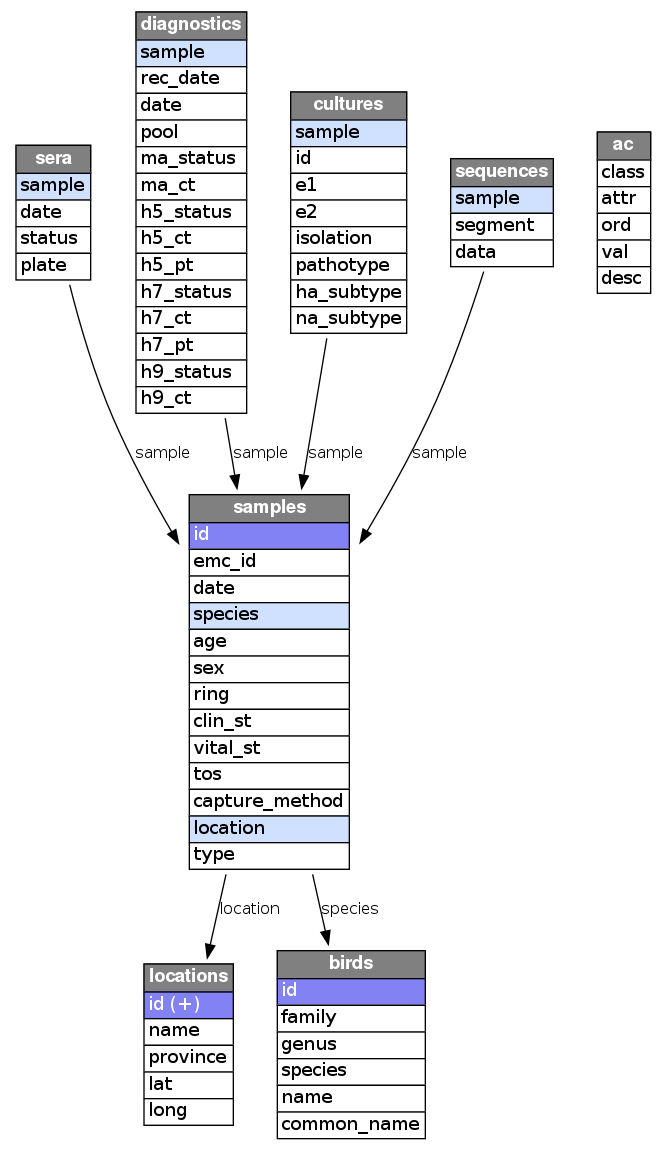
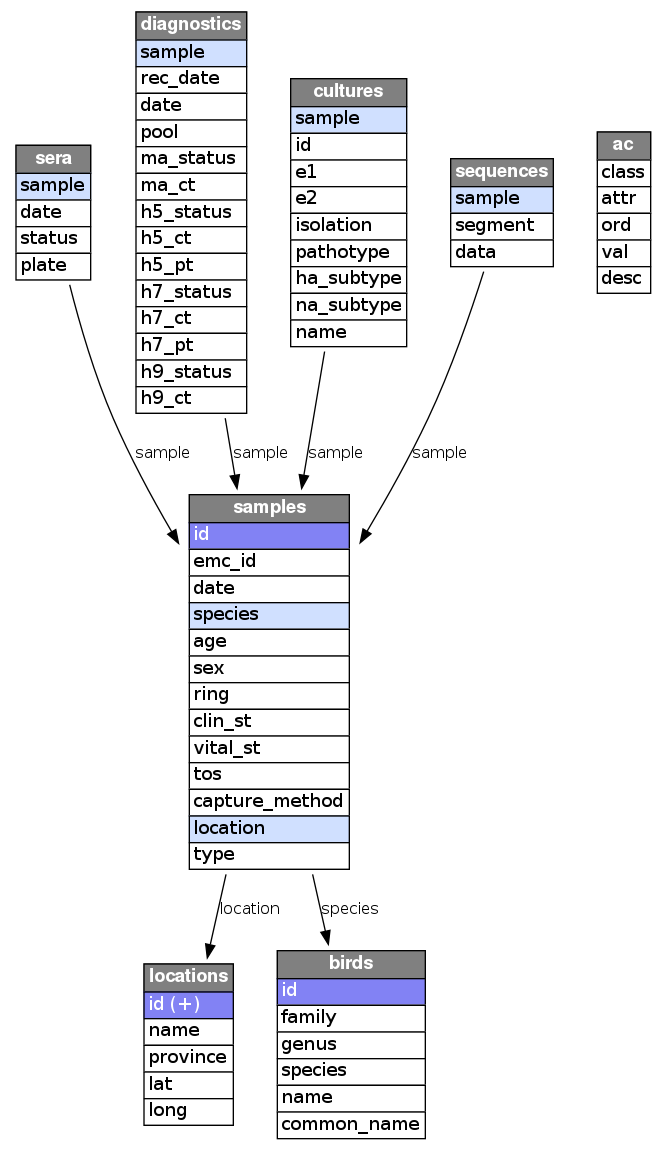
added the name attribute to cultures

Changed region(s): [[0.4198, 0.0609, 0.6297, 0.3046]]

diff --git a/schema/bfs-meta.html b/schema/bfs-meta.html
@@ -1190,6 +1190,32 @@
 
       </td>
     </tr>
+    <tr>
+      <td href="bfs-meta.html#cultures:name" align="left" valign="top" bgcolor="white">
+        <a name="cultures:name"> name
+      </td>
+      <td valign="top"> text </td>
+      <td valign="top"> &nbsp; </td>
+      <td valign="top">
+         <table border="0" cellborder="1" cellspacing="0">
+            <tr>
+              <td valign="top">
+                <font color="#808080">Description:</font>
+              </td>
+              <td> &nbsp; </td>
+              <td valign="top">The name of the isolate</td>
+            </tr>
+            <tr>
+              <td valign="top">
+                <font color="#808080">Source:</font>
+              </td>
+              <td> &nbsp; </td>
+              <td valign="top">user input</td>
+            </tr>
+         </table>
+
+      </td>
+    </tr>
   </table>
 </p>
 <p>
@@ -1626,27 +1652,26 @@
     <tr>
       <td colspan=4>
         <table border="0" cellborder="1" cellspacing="2">
-          <tr> <td valign="top"> <code>1</code> </td> <td>&nbsp;</td> <td valign="top"> <code>Alkhasikhe Lake 1</code> </td> <td>&nbsp;</td> <td valign="top"> <code>Samtskhe-Javakheti</code> </td> <td>&nbsp;</td> <td valign="top"> <code>041.1442</code> </td> <td>&nbsp;</td> <td valign="top"> <code>43.4600 </code> </td> </tr> 
-          <tr> <td valign="top"> <code>2</code> </td> <td>&nbsp;</td> <td valign="top"> <code>Alkhasikhe Lake 2</code> </td> <td>&nbsp;</td> <td valign="top"> <code>Samtskhe-Javakheti</code> </td> <td>&nbsp;</td> <td valign="top"> <code>041.1980</code> </td> <td>&nbsp;</td> <td valign="top"> <code>43.0000 </code> </td> </tr> 
-          <tr> <td valign="top"> <code>3</code> </td> <td>&nbsp;</td> <td valign="top"> <code>Beshkenti</code> </td> <td>&nbsp;</td> <td valign="top"> <code>Kakheti</code> </td> <td>&nbsp;</td> <td valign="top"> <code>041.7009</code> </td> <td>&nbsp;</td> <td valign="top"> <code>46.1512 </code> </td> </tr> 
-          <tr> <td valign="top"> <code>4</code> </td> <td>&nbsp;</td> <td valign="top"> <code>Grigoleti</code> </td> <td>&nbsp;</td> <td valign="top"> <code>Guria</code> </td> <td>&nbsp;</td> <td valign="top"> <code>042.0600</code> </td> <td>&nbsp;</td> <td valign="top"> <code>41.7100 </code> </td> </tr> 
-          <tr> <td valign="top"> <code>5</code> </td> <td>&nbsp;</td> <td valign="top"> <code>Heretskari</code> </td> <td>&nbsp;</td> <td valign="top"> <code>Kakheti</code> </td> <td>&nbsp;</td> <td valign="top"> <code>041.7090</code> </td> <td>&nbsp;</td> <td valign="top"> <code>46.0871 </code> </td> </tr> 
-          <tr> <td valign="top"> <code>6</code> </td> <td>&nbsp;</td> <td valign="top"> <code>Hunting shop 1</code> </td> <td>&nbsp;</td> <td valign="top"> <code>Guria</code> </td> <td>&nbsp;</td> <td valign="top"> <code>042.1761</code> </td> <td>&nbsp;</td> <td valign="top"> <code>41.7500 </code> </td> </tr> 
-          <tr> <td valign="top"> <code>7</code> </td> <td>&nbsp;</td> <td valign="top"> <code>Jandari Lake</code> </td> <td>&nbsp;</td> <td valign="top"> <code>Kvemo Kartli</code> </td> <td>&nbsp;</td> <td valign="top"> <code>041.4458</code> </td> <td>&nbsp;</td> <td valign="top"> <code>45.1988 </code> </td> </tr> 
-          <tr> <td valign="top"> <code>8</code> </td> <td>&nbsp;</td> <td valign="top"> <code>Kazbegi Brewery</code> </td> <td>&nbsp;</td> <td valign="top"> <code>Tbilisi</code> </td> <td>&nbsp;</td> <td valign="top"> <code>041.7118</code> </td> <td>&nbsp;</td> <td valign="top"> <code>44.7898 </code> </td> </tr> 
-          <tr> <td valign="top"> <code>9</code> </td> <td>&nbsp;</td> <td valign="top"> <code>Kumisi Lake</code> </td> <td>&nbsp;</td> <td valign="top"> <code>Kvemo Kartli</code> </td> <td>&nbsp;</td> <td valign="top"> <code>041.5849</code> </td> <td>&nbsp;</td> <td valign="top"> <code>44.8636 </code> </td> </tr> 
-          <tr> <td valign="top"> <code>10</code> </td> <td>&nbsp;</td> <td valign="top"> <code>Lagodekhi</code> </td> <td>&nbsp;</td> <td valign="top"> <code>Kakheti</code> </td> <td>&nbsp;</td> <td valign="top"> <code>041.6589</code> </td> <td>&nbsp;</td> <td valign="top"> <code>46.1908 </code> </td> </tr> 
-          <tr> <td valign="top"> <code>11</code> </td> <td>&nbsp;</td> <td valign="top"> <code>Lekiani</code> </td> <td>&nbsp;</td> <td valign="top"> <code>Guria</code> </td> <td>&nbsp;</td> <td valign="top"> <code>041.7741</code> </td> <td>&nbsp;</td> <td valign="top"> <code>41.9033 </code> </td> </tr> 
-          <tr> <td valign="top"> <code>12</code> </td> <td>&nbsp;</td> <td valign="top"> <code>Napareuli</code> </td> <td>&nbsp;</td> <td valign="top"> <code>Kakheti</code> </td> <td>&nbsp;</td> <td valign="top"> <code>41.9674</code> </td> <td>&nbsp;</td> <td valign="top"> <code>45.526 </code> </td> </tr> 
-          <tr> <td valign="top"> <code>13</code> </td> <td>&nbsp;</td> <td valign="top"> <code>Natanebi</code> </td> <td>&nbsp;</td> <td valign="top"> <code>Guria</code> </td> <td>&nbsp;</td> <td valign="top"> <code>041.7741</code> </td> <td>&nbsp;</td> <td valign="top"> <code>41.9033 </code> </td> </tr> 
-          <tr> <td valign="top"> <code>14</code> </td> <td>&nbsp;</td> <td valign="top"> <code>Paliastomi Lake</code> </td> <td>&nbsp;</td> <td valign="top"> <code>Samegrelo</code> </td> <td>&nbsp;</td> <td valign="top"> <code>042.2247</code> </td> <td>&nbsp;</td> <td valign="top"> <code>41.9194 </code> </td> </tr> 
-          <tr> <td valign="top"> <code>15</code> </td> <td>&nbsp;</td> <td valign="top"> <code>Ponichala Park</code> </td> <td>&nbsp;</td> <td valign="top"> <code>Tbilisi</code> </td> <td>&nbsp;</td> <td valign="top"> <code>041.6293</code> </td> <td>&nbsp;</td> <td valign="top"> <code>44.9307 </code> </td> </tr> 
-          <tr> <td valign="top"> <code>16</code> </td> <td>&nbsp;</td> <td valign="top"> <code>Poti</code> </td> <td>&nbsp;</td> <td valign="top"> <code>Samegrelo</code> </td> <td>&nbsp;</td> <td valign="top"> <code>042.1534</code> </td> <td>&nbsp;</td> <td valign="top"> <code>41.6485 </code> </td> </tr> 
-          <tr> <td valign="top"> <code>17</code> </td> <td>&nbsp;</td> <td valign="top"> <code>Pumping station</code> </td> <td>&nbsp;</td> <td valign="top"> <code>Tbilisi</code> </td> <td>&nbsp;</td> <td valign="top"> <code>041.6833</code> </td> <td>&nbsp;</td> <td valign="top"> <code>44.8280 </code> </td> </tr> 
-          <tr> <td valign="top"> <code>18</code> </td> <td>&nbsp;</td> <td valign="top"> <code>Rustavi</code> </td> <td>&nbsp;</td> <td valign="top"> <code>Tbilisi</code> </td> <td>&nbsp;</td> <td valign="top"> <code>041.5738</code> </td> <td>&nbsp;</td> <td valign="top"> <code>45.0044 </code> </td> </tr> 
-          <tr> <td valign="top"> <code>19</code> </td> <td>&nbsp;</td> <td valign="top"> <code>Tbilisi River</code> </td> <td>&nbsp;</td> <td valign="top"> <code>Tbilisi</code> </td> <td>&nbsp;</td> <td valign="top"> <code>041.6714</code> </td> <td>&nbsp;</td> <td valign="top"> <code>44.8441 </code> </td> </tr> 
-          <tr> <td valign="top"> <code>20</code> </td> <td>&nbsp;</td> <td valign="top"> <code>Telavi</code> </td> <td>&nbsp;</td> <td valign="top"> <code>Kakheti</code> </td> <td>&nbsp;</td> <td valign="top"> <code>041.9674</code> </td> <td>&nbsp;</td> <td valign="top"> <code>45.5260 </code> </td> </tr> 
-          <tr> <td valign="top"> <code>21</code> </td> <td>&nbsp;</td> <td valign="top"> <code>village</code> </td> <td>&nbsp;</td> <td valign="top"> <code></code> </td> <td>&nbsp;</td> <td valign="top"> <code>\N</code> </td> <td>&nbsp;</td> <td valign="top"> <code>\N </code> </td> </tr> 
+          <tr> <td valign="top"> <code>1</code> </td> <td>&nbsp;</td> <td valign="top"> <code>Poti Sea Port</code> </td> <td>&nbsp;</td> <td valign="top"> <code>Samegrelo</code> </td> <td>&nbsp;</td> <td valign="top"> <code>42.1494</code> </td> <td>&nbsp;</td> <td valign="top"> <code>41.6549 </code> </td> </tr> 
+          <tr> <td valign="top"> <code>2</code> </td> <td>&nbsp;</td> <td valign="top"> <code>Paliastomi Lake</code> </td> <td>&nbsp;</td> <td valign="top"> <code>Samegrelo</code> </td> <td>&nbsp;</td> <td valign="top"> <code>42.1228</code> </td> <td>&nbsp;</td> <td valign="top"> <code>41.7345 </code> </td> </tr> 
+          <tr> <td valign="top"> <code>3</code> </td> <td>&nbsp;</td> <td valign="top"> <code>Grigoleti</code> </td> <td>&nbsp;</td> <td valign="top"> <code>Guria</code> </td> <td>&nbsp;</td> <td valign="top"> <code>42.0409</code> </td> <td>&nbsp;</td> <td valign="top"> <code>41.7375 </code> </td> </tr> 
+          <tr> <td valign="top"> <code>4</code> </td> <td>&nbsp;</td> <td valign="top"> <code>Hunting shop 1</code> </td> <td>&nbsp;</td> <td valign="top"> <code>Guria</code> </td> <td>&nbsp;</td> <td valign="top"> <code>42.01115</code> </td> <td>&nbsp;</td> <td valign="top"> <code>41.77978 </code> </td> </tr> 
+          <tr> <td valign="top"> <code>5</code> </td> <td>&nbsp;</td> <td valign="top"> <code>Natanebi</code> </td> <td>&nbsp;</td> <td valign="top"> <code>Guria</code> </td> <td>&nbsp;</td> <td valign="top"> <code>41.9046</code> </td> <td>&nbsp;</td> <td valign="top"> <code>41.8039 </code> </td> </tr> 
+          <tr> <td valign="top"> <code>6</code> </td> <td>&nbsp;</td> <td valign="top"> <code>Chorokhi Delta</code> </td> <td>&nbsp;</td> <td valign="top"> <code>Ajara</code> </td> <td>&nbsp;</td> <td valign="top"> <code>41.5952</code> </td> <td>&nbsp;</td> <td valign="top"> <code>41.5796 </code> </td> </tr> 
+          <tr> <td valign="top"> <code>7</code> </td> <td>&nbsp;</td> <td valign="top"> <code>Khanchali Lake</code> </td> <td>&nbsp;</td> <td valign="top"> <code>Samtskhe-Javakheti</code> </td> <td>&nbsp;</td> <td valign="top"> <code>41.2562</code> </td> <td>&nbsp;</td> <td valign="top"> <code>43.5502 </code> </td> </tr> 
+          <tr> <td valign="top"> <code>8</code> </td> <td>&nbsp;</td> <td valign="top"> <code>Bughdasheni Lake</code> </td> <td>&nbsp;</td> <td valign="top"> <code>Samtskhe-Javakheti</code> </td> <td>&nbsp;</td> <td valign="top"> <code>41.2014</code> </td> <td>&nbsp;</td> <td valign="top"> <code>43.6861 </code> </td> </tr> 
+          <tr> <td valign="top"> <code>9</code> </td> <td>&nbsp;</td> <td valign="top"> <code>Madatapha  Lake</code> </td> <td>&nbsp;</td> <td valign="top"> <code>Samtskhe-Javakheti</code> </td> <td>&nbsp;</td> <td valign="top"> <code>41.1781</code> </td> <td>&nbsp;</td> <td valign="top"> <code>43.7842 </code> </td> </tr> 
+          <tr> <td valign="top"> <code>10</code> </td> <td>&nbsp;</td> <td valign="top"> <code>Tbilisi</code> </td> <td>&nbsp;</td> <td valign="top"> <code>Tbilisi</code> </td> <td>&nbsp;</td> <td valign="top"> <code>41.7118</code> </td> <td>&nbsp;</td> <td valign="top"> <code>44.7898 </code> </td> </tr> 
+          <tr> <td valign="top"> <code>11</code> </td> <td>&nbsp;</td> <td valign="top"> <code>Kumisi Lake</code> </td> <td>&nbsp;</td> <td valign="top"> <code>Kvemo Kartli</code> </td> <td>&nbsp;</td> <td valign="top"> <code>41.5849</code> </td> <td>&nbsp;</td> <td valign="top"> <code>44.8636 </code> </td> </tr> 
+          <tr> <td valign="top"> <code>12</code> </td> <td>&nbsp;</td> <td valign="top"> <code>Ponichala Park</code> </td> <td>&nbsp;</td> <td valign="top"> <code>Tbilisi</code> </td> <td>&nbsp;</td> <td valign="top"> <code>41.6293</code> </td> <td>&nbsp;</td> <td valign="top"> <code>44.9307 </code> </td> </tr> 
+          <tr> <td valign="top"> <code>13</code> </td> <td>&nbsp;</td> <td valign="top"> <code>Rustavi</code> </td> <td>&nbsp;</td> <td valign="top"> <code>Tbilisi</code> </td> <td>&nbsp;</td> <td valign="top"> <code>41.5738</code> </td> <td>&nbsp;</td> <td valign="top"> <code>45.0044 </code> </td> </tr> 
+          <tr> <td valign="top"> <code>14</code> </td> <td>&nbsp;</td> <td valign="top"> <code>Jandari Lake</code> </td> <td>&nbsp;</td> <td valign="top"> <code>Kvemo Kartli</code> </td> <td>&nbsp;</td> <td valign="top"> <code>41.4458</code> </td> <td>&nbsp;</td> <td valign="top"> <code>45.1988 </code> </td> </tr> 
+          <tr> <td valign="top"> <code>15</code> </td> <td>&nbsp;</td> <td valign="top"> <code>Krasnogorski</code> </td> <td>&nbsp;</td> <td valign="top"> <code>Kakheti</code> </td> <td>&nbsp;</td> <td valign="top"> <code>41.7360</code> </td> <td>&nbsp;</td> <td valign="top"> <code>45.3400 </code> </td> </tr> 
+          <tr> <td valign="top"> <code>16</code> </td> <td>&nbsp;</td> <td valign="top"> <code>Telavi</code> </td> <td>&nbsp;</td> <td valign="top"> <code>Kakheti</code> </td> <td>&nbsp;</td> <td valign="top"> <code>41.9674</code> </td> <td>&nbsp;</td> <td valign="top"> <code>45.5260 </code> </td> </tr> 
+          <tr> <td valign="top"> <code>17</code> </td> <td>&nbsp;</td> <td valign="top"> <code>Heretskari</code> </td> <td>&nbsp;</td> <td valign="top"> <code>Kakheti</code> </td> <td>&nbsp;</td> <td valign="top"> <code>41.7090</code> </td> <td>&nbsp;</td> <td valign="top"> <code>46.0871 </code> </td> </tr> 
+          <tr> <td valign="top"> <code>18</code> </td> <td>&nbsp;</td> <td valign="top"> <code>Beshkenti</code> </td> <td>&nbsp;</td> <td valign="top"> <code>Kakheti</code> </td> <td>&nbsp;</td> <td valign="top"> <code>41.7009</code> </td> <td>&nbsp;</td> <td valign="top"> <code>46.1512 </code> </td> </tr> 
+          <tr> <td valign="top"> <code>19</code> </td> <td>&nbsp;</td> <td valign="top"> <code>Lagodekhi</code> </td> <td>&nbsp;</td> <td valign="top"> <code>Kakheti</code> </td> <td>&nbsp;</td> <td valign="top"> <code>41.6589</code> </td> <td>&nbsp;</td> <td valign="top"> <code>46.1908 </code> </td> </tr> 
+          <tr> <td valign="top"> <code>-1</code> </td> <td>&nbsp;</td> <td valign="top"> <code>village</code> </td> <td>&nbsp;</td> <td valign="top"> <code></code> </td> <td>&nbsp;</td> <td valign="top"> <code>\N</code> </td> <td>&nbsp;</td> <td valign="top"> <code>\N </code> </td> </tr> 
         </table>
       </td>
     </tr>

diff --git a/schema/bfs-schema.html b/schema/bfs-schema.html
@@ -50,15 +50,16 @@
 <area shape="rect" id="diagnostics" href="bfs-meta.html#diagnostics:h7_pt" title="&lt;TABLE&gt;" alt="" coords="136,333,247,360"/>
 <area shape="rect" id="diagnostics" href="bfs-meta.html#diagnostics:h9_status" title="&lt;TABLE&gt;" alt="" coords="136,360,247,387"/>
 <area shape="rect" id="diagnostics" href="bfs-meta.html#diagnostics:h9_ct" title="&lt;TABLE&gt;" alt="" coords="136,387,247,413"/>
-<area shape="rect" id="cultures" href="bfs-meta.html#class:cultures" title="&lt;TABLE&gt;" alt="" coords="291,92,407,120"/>
-<area shape="rect" id="cultures" href="bfs-meta.html#cultures:sample" title="&lt;TABLE&gt;" alt="" coords="291,120,407,147"/>
-<area shape="rect" id="cultures" href="bfs-meta.html#cultures:id" title="&lt;TABLE&gt;" alt="" coords="291,147,407,173"/>
-<area shape="rect" id="cultures" href="bfs-meta.html#cultures:e1" title="&lt;TABLE&gt;" alt="" coords="291,173,407,200"/>
-<area shape="rect" id="cultures" href="bfs-meta.html#cultures:e2" title="&lt;TABLE&gt;" alt="" coords="291,200,407,227"/>
-<area shape="rect" id="cultures" href="bfs-meta.html#cultures:isolation" title="&lt;TABLE&gt;" alt="" coords="291,227,407,253"/>
-<area shape="rect" id="cultures" href="bfs-meta.html#cultures:pathotype" title="&lt;TABLE&gt;" alt="" coords="291,253,407,280"/>
-<area shape="rect" id="cultures" href="bfs-meta.html#cultures:ha_subtype" title="&lt;TABLE&gt;" alt="" coords="291,280,407,307"/>
-<area shape="rect" id="cultures" href="bfs-meta.html#cultures:na_subtype" title="&lt;TABLE&gt;" alt="" coords="291,307,407,333"/>
+<area shape="rect" id="cultures" href="bfs-meta.html#class:cultures" title="&lt;TABLE&gt;" alt="" coords="291,79,407,107"/>
+<area shape="rect" id="cultures" href="bfs-meta.html#cultures:sample" title="&lt;TABLE&gt;" alt="" coords="291,107,407,133"/>
+<area shape="rect" id="cultures" href="bfs-meta.html#cultures:id" title="&lt;TABLE&gt;" alt="" coords="291,133,407,160"/>
+<area shape="rect" id="cultures" href="bfs-meta.html#cultures:e1" title="&lt;TABLE&gt;" alt="" coords="291,160,407,187"/>
+<area shape="rect" id="cultures" href="bfs-meta.html#cultures:e2" title="&lt;TABLE&gt;" alt="" coords="291,187,407,213"/>
+<area shape="rect" id="cultures" href="bfs-meta.html#cultures:isolation" title="&lt;TABLE&gt;" alt="" coords="291,213,407,240"/>
+<area shape="rect" id="cultures" href="bfs-meta.html#cultures:pathotype" title="&lt;TABLE&gt;" alt="" coords="291,240,407,267"/>
+<area shape="rect" id="cultures" href="bfs-meta.html#cultures:ha_subtype" title="&lt;TABLE&gt;" alt="" coords="291,267,407,293"/>
+<area shape="rect" id="cultures" href="bfs-meta.html#cultures:na_subtype" title="&lt;TABLE&gt;" alt="" coords="291,293,407,320"/>
+<area shape="rect" id="cultures" href="bfs-meta.html#cultures:name" title="&lt;TABLE&gt;" alt="" coords="291,320,407,347"/>
 <area shape="rect" id="sequences" href="bfs-meta.html#class:sequences" title="&lt;TABLE&gt;" alt="" coords="451,159,553,187"/>
 <area shape="rect" id="sequences" href="bfs-meta.html#sequences:sample" title="&lt;TABLE&gt;" alt="" coords="451,187,553,213"/>
 <area shape="rect" id="sequences" href="bfs-meta.html#sequences:segment" title="&lt;TABLE&gt;" alt="" coords="451,213,553,240"/>

diff --git a/mojits/Diagnostics/binders/index.js b/mojits/Diagnostics/binders/index.js
@@ -31,7 +31,8 @@ YUI.add('DiagnosticsBinderIndex', function (Y, NAME) {
       h7_ct: {},
       h7_pt: {},
       h9_status: {},
-      h9_ct: {}
+      h9_ct: {},
+      name: {}
     }
   });
 
@@ -79,7 +80,8 @@ YUI.add('DiagnosticsBinderIndex', function (Y, NAME) {
         'h7_ct',
         'h7_pt',
         'h9_status',
-        'h9_ct'
+        'h9_ct',
+        'name'
       ]
     }
   });
@@ -157,6 +159,11 @@ YUI.add('DiagnosticsBinderIndex', function (Y, NAME) {
         nudge = function (e) {
           // make sure the autocomplete list opens when the cell is blank
           e.inputNode.ac.sendRequest('');
+          if (e.inputNode.get('value') === 'undefined') {
+            e.inputNode.set('value', '');
+          }
+        },
+        resetUndefined = function (e) {
           if (e.inputNode.get('value') === 'undefined') {
             e.inputNode.set('value', '');
           }
@@ -337,6 +344,15 @@ YUI.add('DiagnosticsBinderIndex', function (Y, NAME) {
                     key: 'h9_ct',
                     label: 'H9 Ct',
                     editor: 'inlineNumber'
+                  },
+
+                  {
+                    key: 'name',
+                    label: 'Name',
+                    editor: 'inline',
+                    editorConfig: {
+                      on: {editorShow: resetUndefined}
+                    }
                   }
                 ],
 

diff --git a/mojits/Diagnostics/views/index.hb.html b/mojits/Diagnostics/views/index.hb.html
@@ -46,6 +46,7 @@
                 <td> h7_pt </td>
                 <td> h9_status </td>
                 <td> h9_ct </td>
+                <td> name </td>
               </tr>
               <tr>
                 <td> {{ma_status}} </td>
@@ -58,6 +59,7 @@
                 <td> {{h7_pt}} </td>
                 <td> {{h9_status}} </td>
                 <td> {{h9_ct}} </td>
+                <td> {{name}} </td>
               </tr>
             </table>
           </td>
